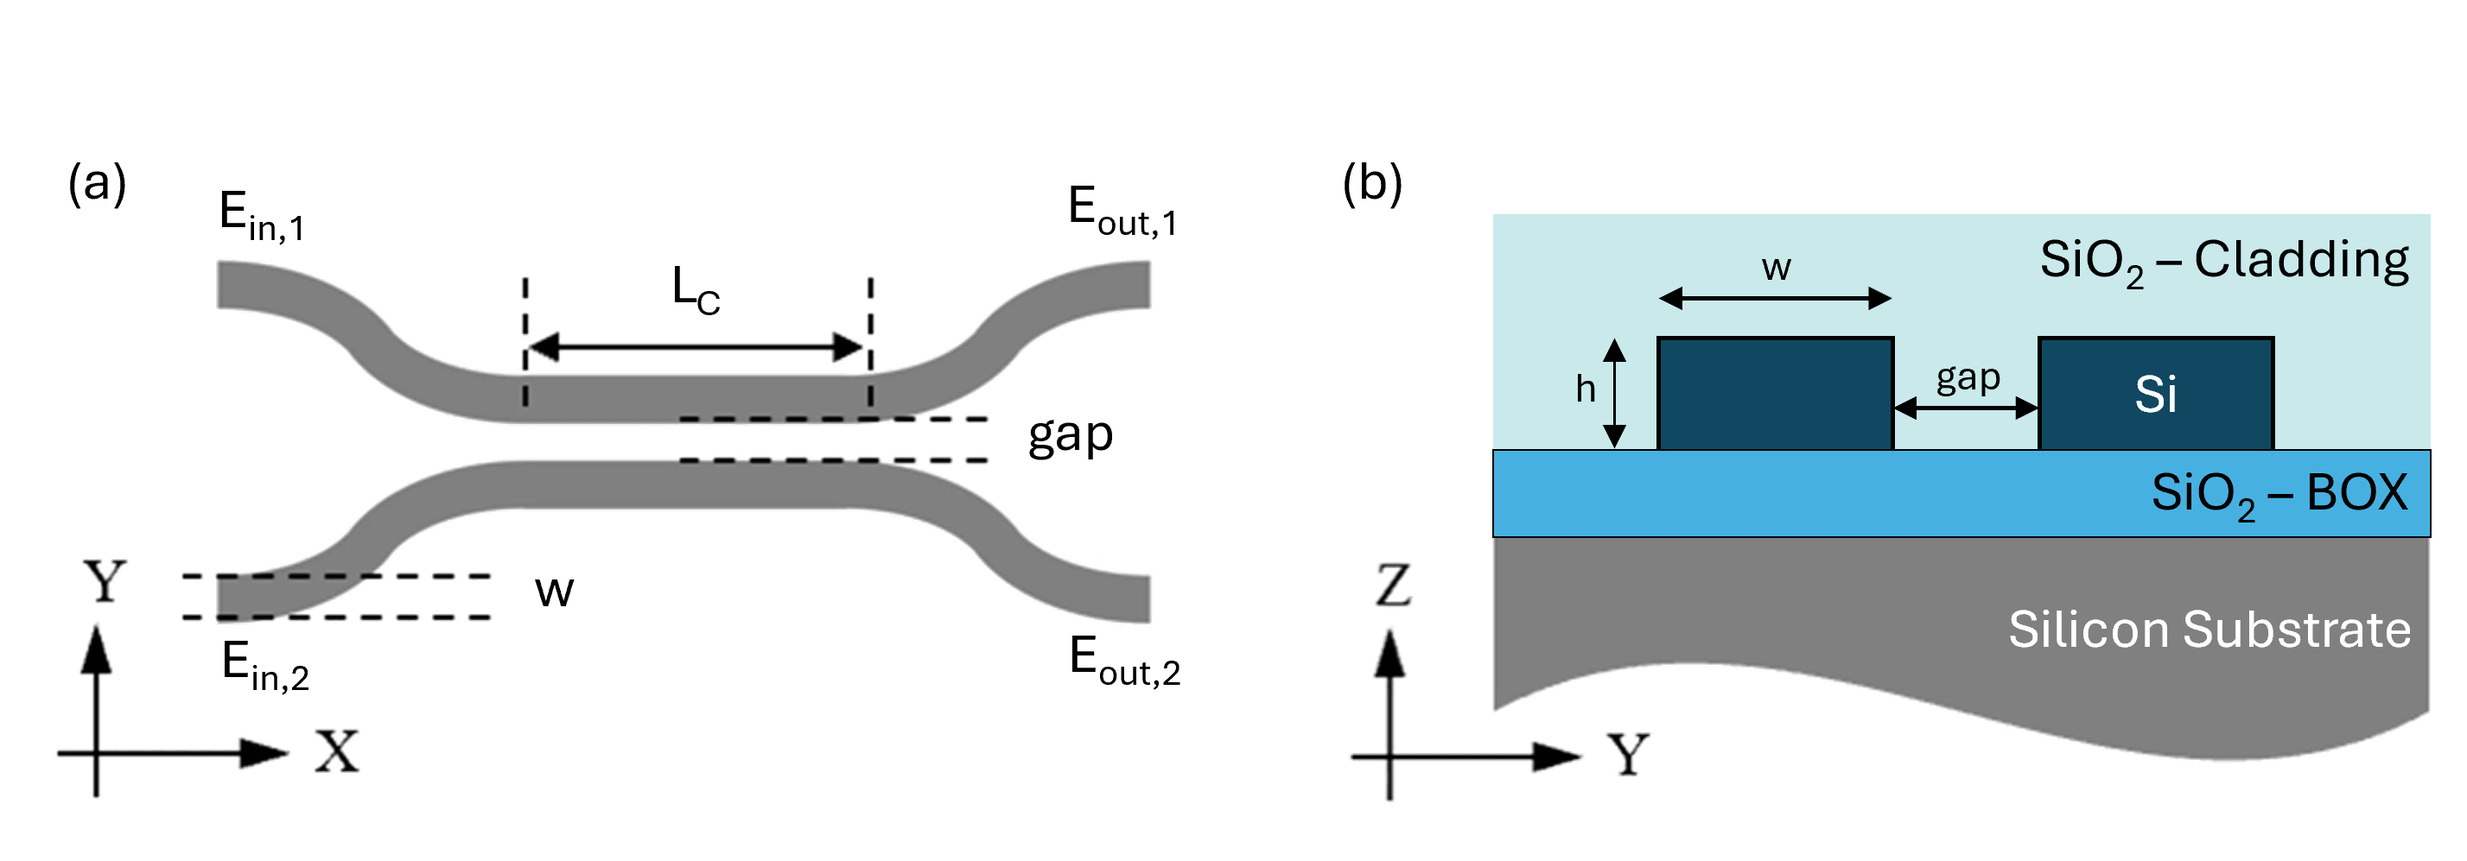
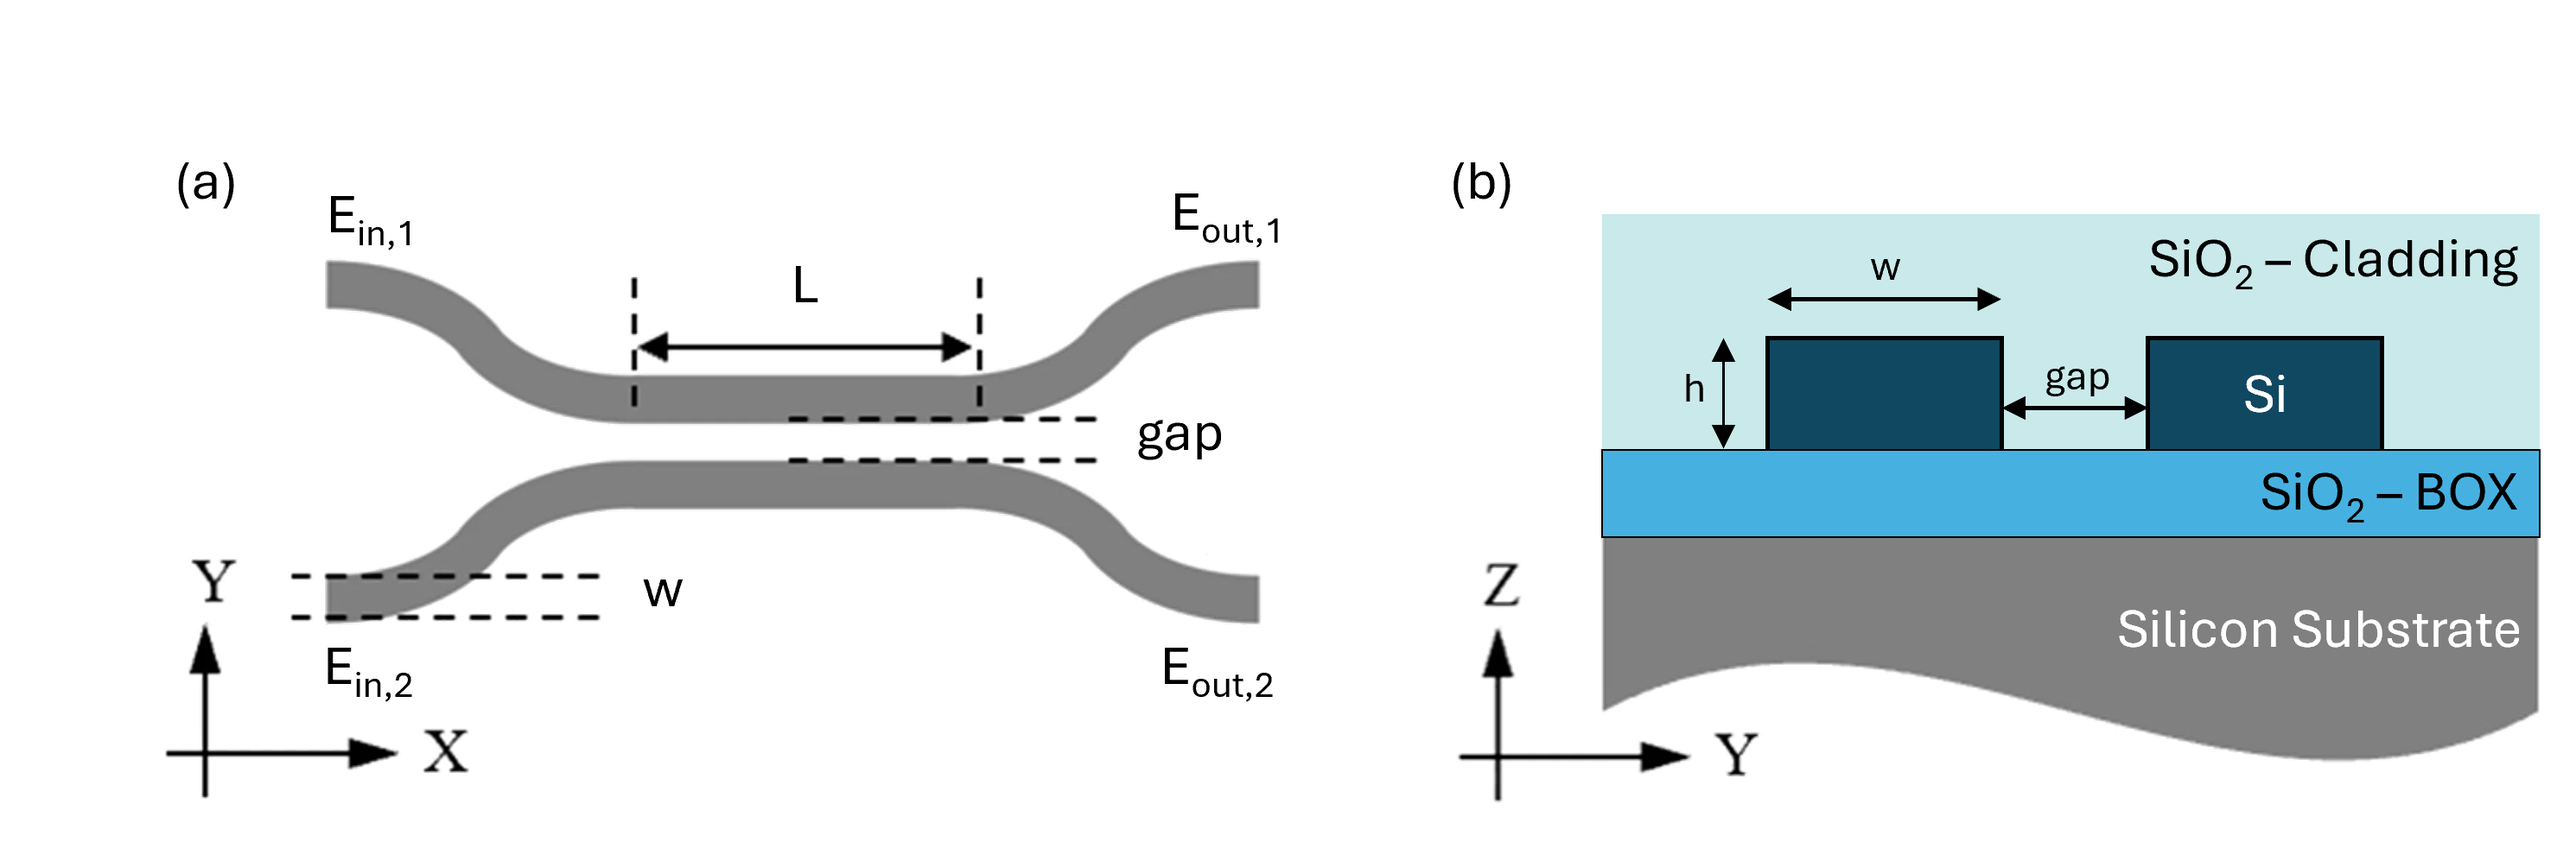
Correct wrong definition of Lc -> L in directional couplers fundamentals

diff --git a/ch2-fundamentals.tex b/ch2-fundamentals.tex
@@ -231,9 +231,9 @@ length, is
 L_c = \frac{\pi}{2\kappa}.
 \end{equation}
 
-By selecting the appropriate interaction length $L$, directional couplers can implement arbitrary 
-fixed splitting ratios. In programmable photonic circuits, they are typically designed as balanced 
-50:50 couplers ($L = L_c$), forming the basis of interferometric structures such as Mach-Zehnder 
+By selecting the appropriate interaction length $L$, directional couplers can implement arbitrary
+fixed splitting ratios. In programmable photonic circuits, they are typically designed as balanced
+50:50 couplers ($L = L_c/2$), forming the basis of interferometric structures such as Mach-Zehnder
 interferometers.
 
 Beyond power distribution, the operation of a symmetric directional coupler is more accurately 
@@ -264,7 +264,7 @@ impacting the fidelity of the synthesized optical transformations
     \centering
     \includegraphics[width=\linewidth]{figures/ch2-directional_coupler.png}
     \caption{Schematic of a $2\times2$ symmetric directional coupler. 
-    (a) Top-view illustrating the coupling length $L_c$ and the coupling gap. 
+    (a) Top-view illustrating the interaction length $L$ and the coupling gap. 
     (b) Cross-section of the coupling region in the SOI platform, where the waveguide width $w$ and 
     the gap are the critical parameters defining the coupling coefficient $\kappa$.}
 \end{figure}
